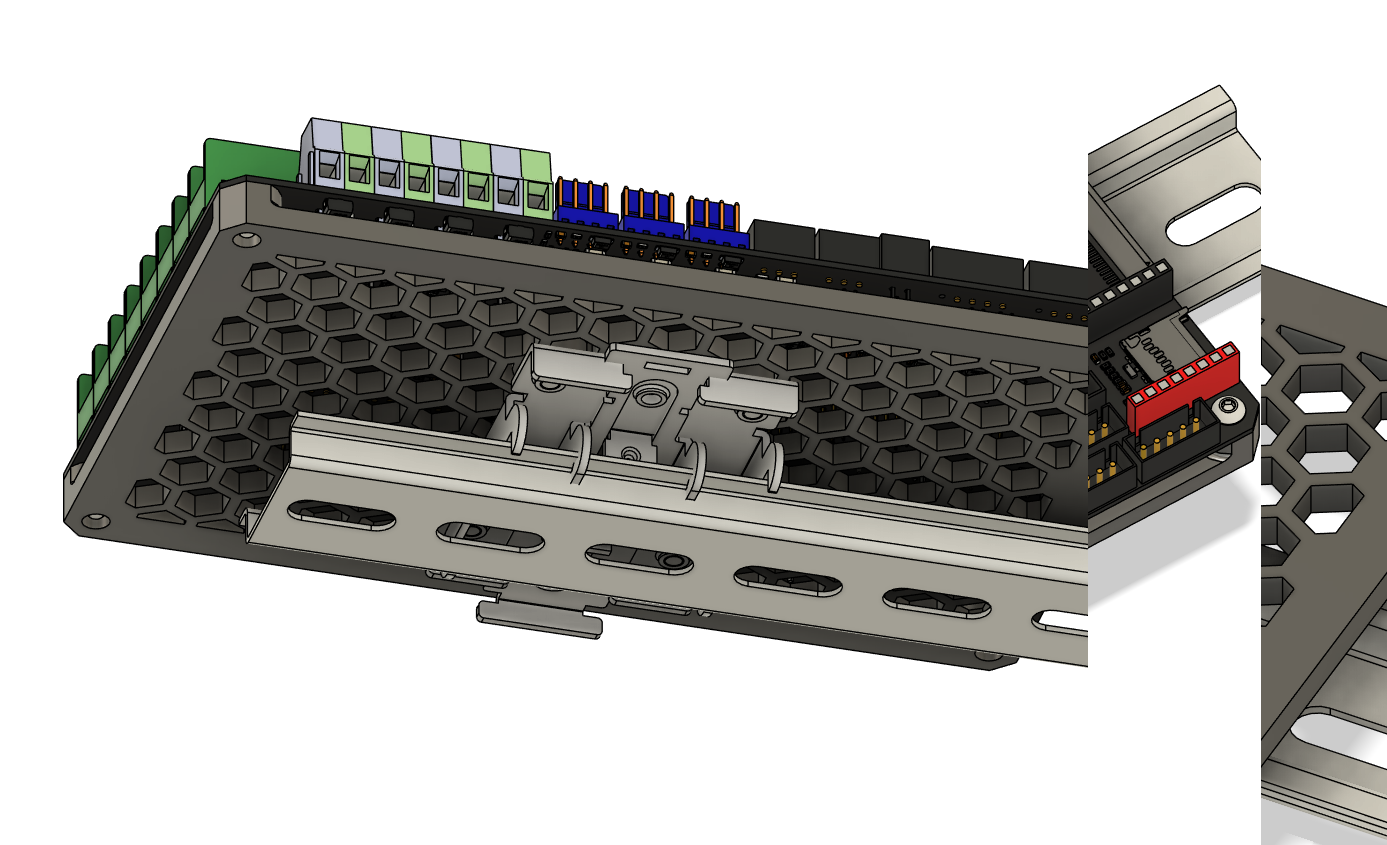
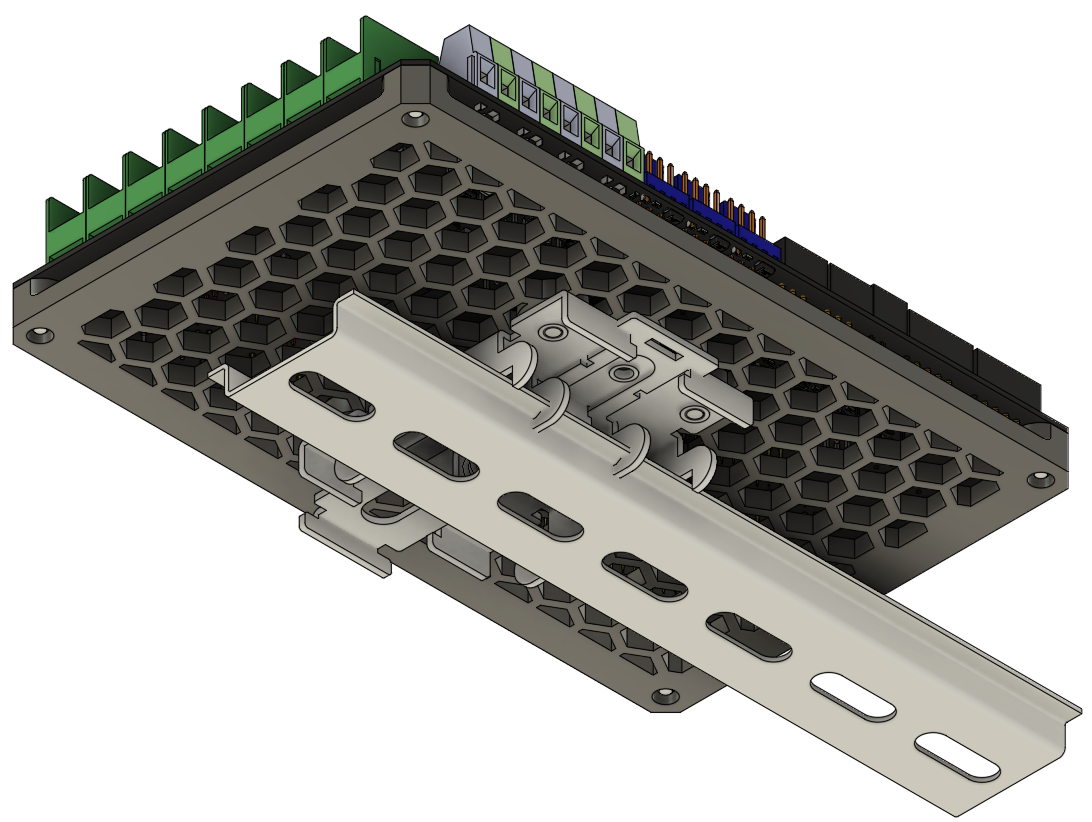
Better screenshots

diff --git a/printer_mods/Voin/BTT_Octopus_Pro_EZ-DIN_Mount/README.md b/printer_mods/Voin/BTT_Octopus_Pro_EZ-DIN_Mount/README.md
@@ -6,10 +6,10 @@
 - 4x M3 8mm Hex buttonhead screws
 ## Part pictures
 Printed part:
-![DIN Mount](<DIN Mount.png>)
+![DIN Mount](<DIN_Mount.png>)
 Clamp mount
-![Mounted](<DIN Mount assembly.png>)
+![Mounted](<DIN_Mount_assembly.png>)
 Assembled view from the top
-![Top view](<DIN Mount full assembly top.png>)
+![Top view](<DIN_Mount_full_assembly_top.png>)
 Bottom view
-![Bottom view](<DIN Mount full assembly bottom.png>)
+![Bottom view](<DIN_Mount_full_assembly_bottom.png>)
